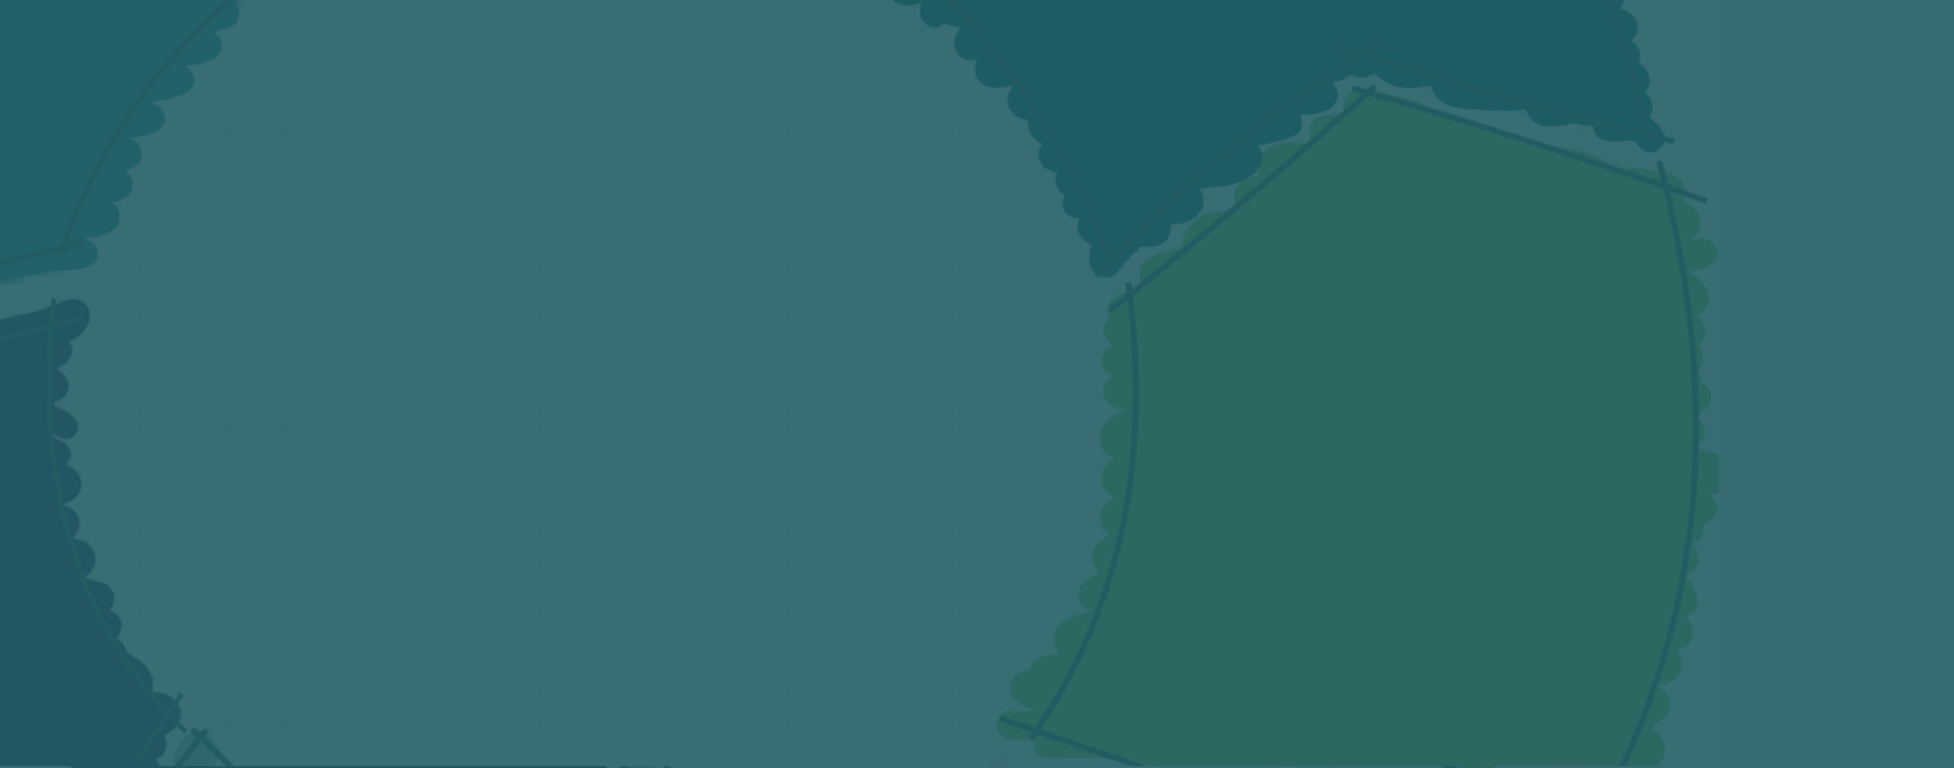
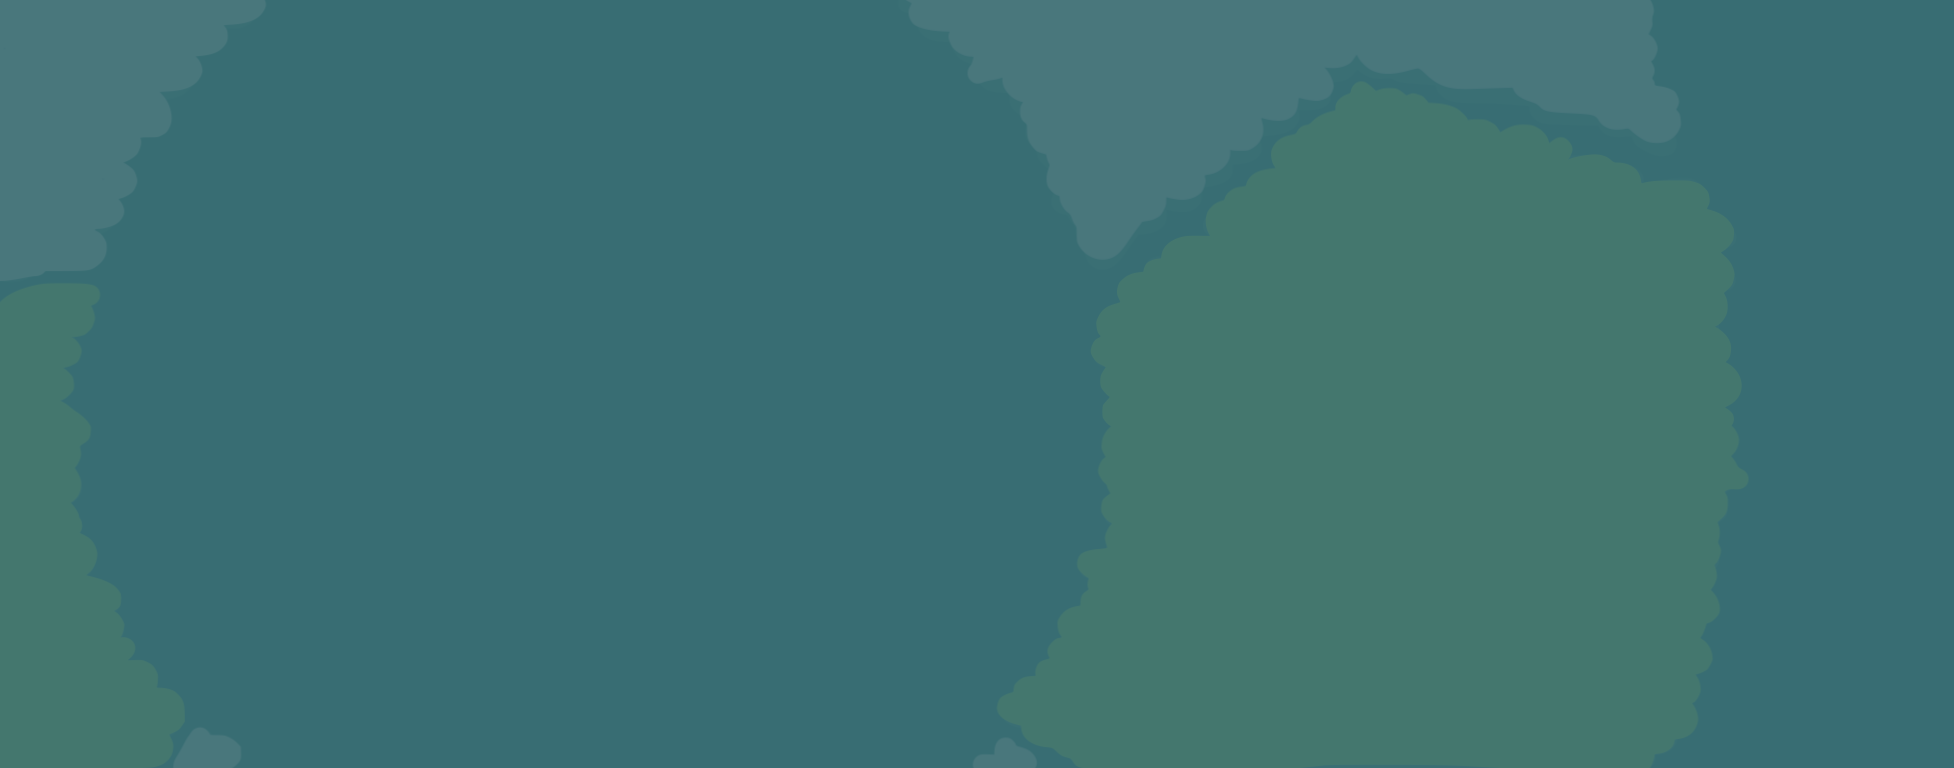
latest colour options (grey and green in back)

diff --git a/content/_index.md b/content/_index.md
@@ -7,8 +7,6 @@ menu:
         weight: 10
 ---
 
-# Welcome to SciLifeLab Research Data Management Guidelines!
-
-Research data management (RDM) concerns the organization, storage, preservation, and sharing of data that is collected or analysed during a research project. Proper planning and management of research data will make project management easier and more efficient while projects are being performed. It also facilitates sharing and allows others to validate as well as reuse the data.
+Research data management (RDM) concerns the organisation, storage, preservation, and sharing of data that is collected or analysed during a research project. Proper planning and management of research data will make project management easier and more efficient while projects are being performed. It also facilitates sharing and allows others to validate as well as reuse the data.
 
 The purpose of these guidelines is to serve as an information resource to researchers regarding research data management.
